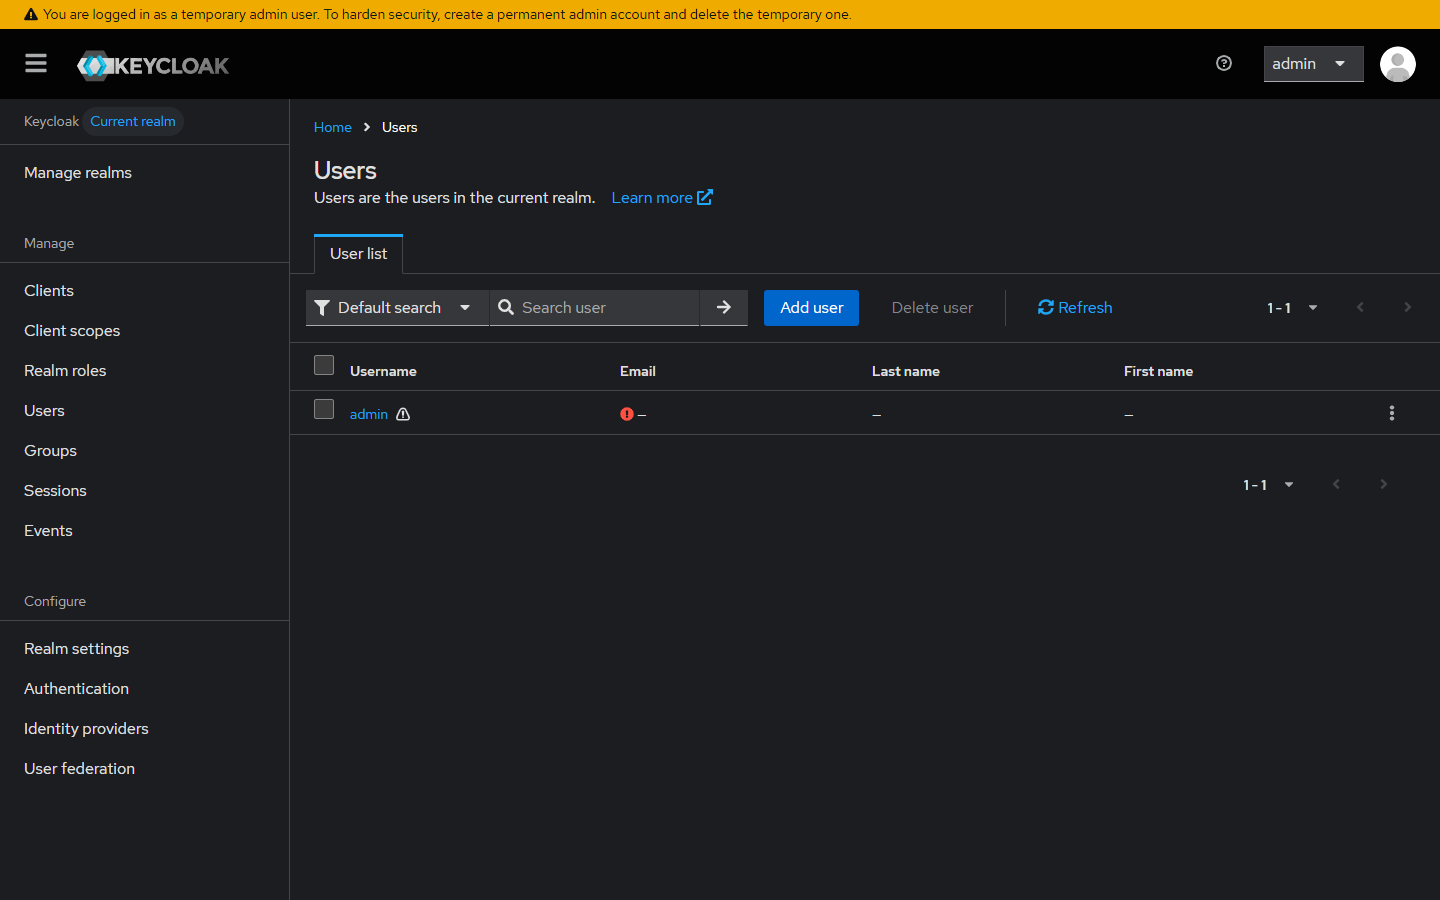
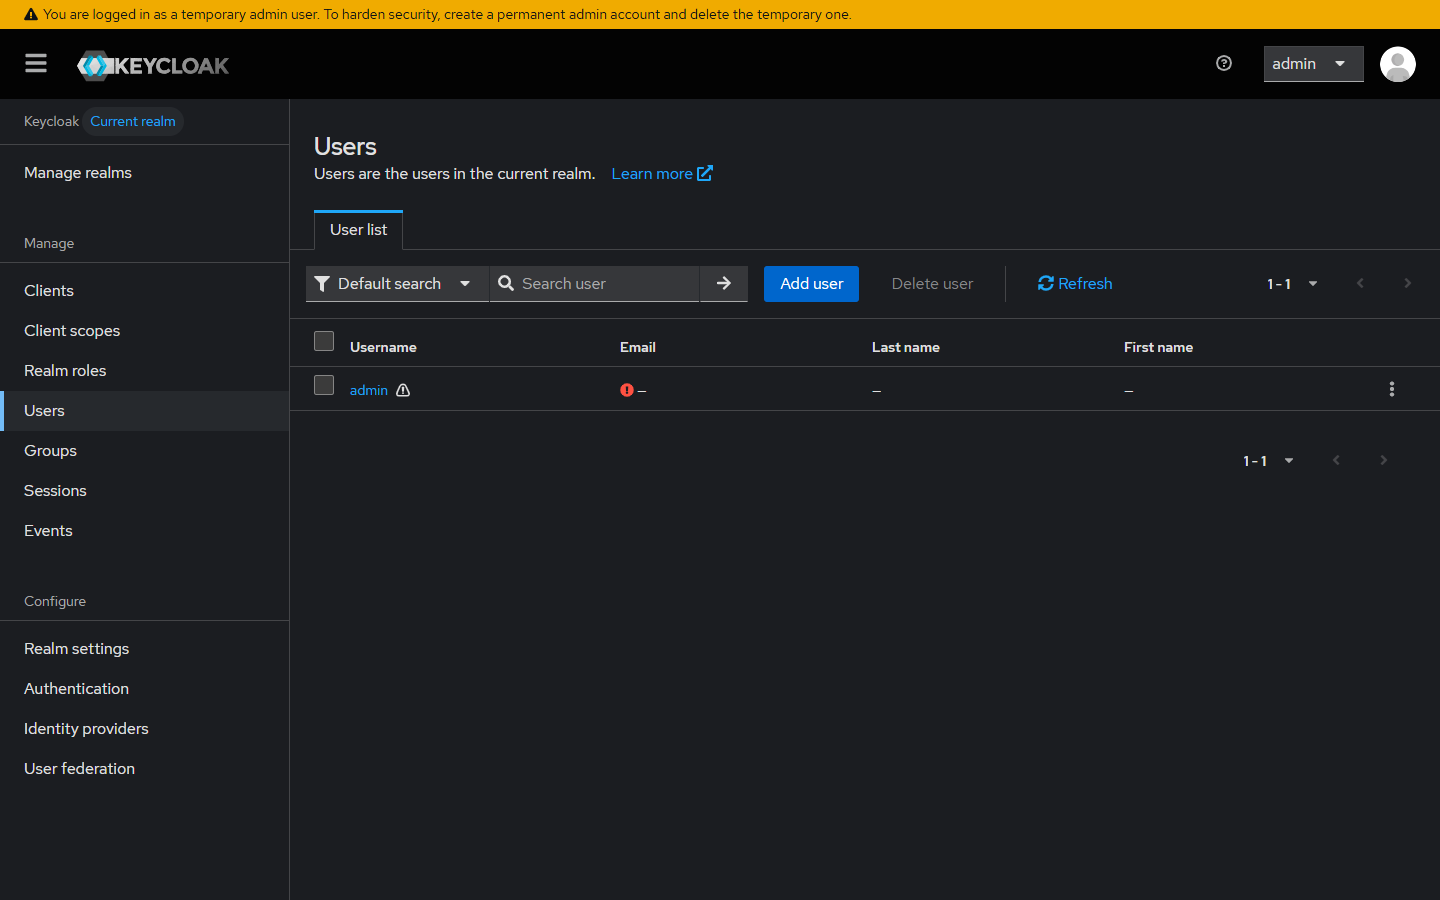
docs(repo): add enterprise-grade README and live Keycloak JWT verification screenshot

Changed region(s): [[0.1875, 0.1244, 0.6875, 0.4667], [0.7812, 0.3733, 0.8438, 0.4356], [0.7188, 0.3111, 0.7812, 0.3733]]

diff --git a/README.md b/README.md
@@ -1,0 +1,237 @@
+# Enterprise Learning Management System (LMS) Multi-Tenant Platform
+
+Nền tảng Quản lý Học tập và Quản trị Đào tạo Đa trường (Multi-Tenant Learning Management System) phục vụ các trường đại học thành viên, tích hợp hệ thống xác thực tập trung **Keycloak Identity and Access Management (OIDC / PKCE)** và cơ sở dữ liệu **PostgreSQL** hỗ trợ phân vùng dữ liệu theo từng cơ sở đào tạo.
+
+---
+
+## 1. Tổng quan Kiến trúc Hệ thống
+
+Hệ thống được thiết kế theo mô hình kiến trúc phân tầng (Multi-tier Architecture) hỗ trợ Multi-Tenant, bảo đảm sự cô lập dữ liệu hoàn toàn giữa các trường đại học thành viên (Trường ĐH Công Thương TP.HCM - HUIT và Trường ĐH Bách Khoa TP.HCM - HCMUT).
+
+```mermaid
+flowchart TD
+    subgraph Clients["Tầng Ứng dụng Khách (Clients Layer)"]
+        MobileApp["Mobile App (React Native / Expo)<br/>lms-native"]
+        WebPortal["Web Portals (React 18 Vite)<br/>lms-fe"]
+    end
+
+    subgraph Identity["Tầng Xác thực & Quản trị Danh tính (IAM)"]
+        Keycloak["Keycloak IAM Server (OIDC Provider)<br/>Realm: lms | Client: lms-mobile (PKCE S256)"]
+    end
+
+    subgraph Backend["Tầng Dịch vụ Nghiệp vụ (Application Layer)"]
+        APIGateway["RESTful API Backend (Laravel 13)<br/>lms-be"]
+    end
+
+    subgraph Data["Tầng Dữ liệu Bền vững (Data Persistence Layer)"]
+        Postgres["PostgreSQL Database<br/>Row-Level Security (RLS) & Multi-Tenant Context"]
+    end
+
+    MobileApp -->|OAuth 2.0 PKCE / OIDC| Keycloak
+    WebPortal -->|Direct Access Grants| Keycloak
+    Keycloak -->|JWT Bearer Token RS256| MobileApp
+    Keycloak -->|JWT Bearer Token RS256| WebPortal
+    MobileApp -->|Bearer Token + School Context| APIGateway
+    WebPortal -->|Bearer Token + School Context| APIGateway
+    APIGateway -->|Multi-Tenant Queries| Postgres
+```
+
+### Các phân hệ chính trong Repository
+
+* **`lms-native`**: Ứng dụng di động dành cho sinh viên và giảng viên, phát triển trên nền tảng React Native (Expo SDK 58), hỗ trợ đa nền tảng (Android, iOS, Web). Tích hợp đăng nhập chuẩn doanh nghiệp qua **Keycloak PKCE (RFC 7636)**.
+* **`lms-fe`**: Cổng thông tin web dành cho Quản trị viên hệ thống (SaaS Super Admin), Quản trị viên trường (School Admin), Giảng viên và Sinh viên, xây dựng bằng React 18 và Vite.
+* **`lms-be`**: Hệ thống dịch vụ lõi (Core Backend API) phát triển trên nền tảng Laravel 13, cung cấp API RESTful, kết nối PostgreSQL với cơ chế Row-Level Security (RLS) bảo vệ dữ liệu độc lập giữa các trường.
+
+---
+
+## 2. Phân hệ Ứng dụng Di động (`lms-native`)
+
+Phân hệ `lms-native` cung cấp giao diện học vụ hiện đại, tự động nhận diện thương hiệu và dữ liệu đào tạo theo từng trường thành viên.
+
+### 2.1. Tính năng nổi bật
+
+1. **Xác thực an toàn qua Keycloak OIDC PKCE**:
+   * Triển khai chuẩn **RFC 7636 Proof Key for Code Exchange (S256)** bảo vệ mã ủy quyền trên thiết bị di động.
+   * Giao diện đăng nhập đồng nhất: Một nút bấm chính xử lý phiên làm việc thông suốt.
+   * Lưu trữ token an toàn và bền vững qua persistent storage, tự động khôi phục session khi mở lại ứng dụng.
+2. **Cô lập dữ liệu Đa trường (Multi-Tenant Isolation)**:
+   * Tự động chuyển đổi logo, màu sắc nhận diện, thông tin phòng ban, hotline và kênh hỗ trợ giữa HUIT và Bách Khoa (HCMUT).
+   * Cơ chế phòng vệ tự động chặn truy cập trái phép nếu sinh viên chọn sai trường (HTTP 401).
+3. **Quản lý Học vụ & Chương trình đào tạo khung**:
+   * Đồng bộ trạng thái môn học: Hiển thị nhãn **"Đã đạt"** cho các học phần đã tích lũy; ẩn các nhãn trạng thái dư thừa đối với các học phần chưa học.
+   * Mở rộng cấu trúc chương trình đào tạo đủ 8 học kỳ: Ngành Công nghệ thông tin HUIT (151 tín chỉ), ngành Kế toán HUIT (145 tín chỉ), ngành Khoa học Máy tính Bách Khoa HCMUT (142 tín chỉ).
+   * Tự động ẩn cảnh báo nợ tín chỉ khi sinh viên không có nợ môn (`creditsDebt = 0`).
+
+---
+
+### 2.2. Hình ảnh Giao diện Thực tế (Visual Proof of Work)
+
+#### Giao diện Đăng nhập Đồng nhất & Trang chủ Học sinh
+
+| Màn hình Đăng nhập Hệ thống (Unified Button) | Trang chủ Bách Khoa (HCMUT) - Nhãn Xuất sắc căn giữa |
+| :---: | :---: |
+| <img src="./.github/screenshots/01_mobile_unified_login.png" width="360" alt="Login Screen" /> | <img src="./.github/screenshots/02_hcmut_home_centered_badge.png" width="360" alt="HCMUT Home Screen" /> |
+
+#### Chương trình Đào tạo Khung (Đồng bộ Nhãn "Đã đạt" & Đủ 8 Học kỳ)
+
+| CTĐT Khoa học Máy tính Bách Khoa (8 Kỳ - 142 TC) | CTĐT Kế toán HUIT (8 Kỳ - 145 TC) |
+| :---: | :---: |
+| <img src="./.github/screenshots/03_hcmut_curriculum_passed_status.png" width="360" alt="HCMUT Curriculum" /> | <img src="./.github/screenshots/05_huit_accounting_curriculum_8sem.png" width="360" alt="HUIT Accounting Curriculum" /> |
+
+---
+
+## 3. Xác thực Danh tính & Bảo mật (Keycloak IAM)
+
+Toàn bộ tài khoản người dùng trên hệ thống (Web và Mobile) được quản lý tập trung trên máy chủ Keycloak tại Realm **`lms`**.
+
+### 3.1. Minh chứng Vận hành Keycloak
+
+#### Bảng điều khiển Quản trị Keycloak (Keycloak Admin Console)
+
+| Danh sách Người dùng Realm `lms` (Users List) | Cấu hình Client Di động `lms-mobile` (PKCE S256) |
+| :---: | :---: |
+| <img src="./.github/screenshots/08_keycloak_lms_users.png" width="480" alt="Keycloak LMS Users" /> | <img src="./.github/screenshots/09_keycloak_lms_clients.png" width="480" alt="Keycloak LMS Clients" /> |
+
+#### Phiên làm việc Thực tế & Giải mã JWT Token (Live Decoded Token)
+
+| Minh chứng Token JWT sống trên Mobile App (Console) | Cấu trúc Payload Token RS256 (Claims & Tenant Scope) |
+| :---: | :---: |
+| <img src="./.github/screenshots/13_keycloak_live_token_verified.png" width="360" alt="Live Token Verified" /> | <img src="./.github/screenshots/12_keycloak_jwt_token_decoded.png" width="480" alt="Decoded JWT Token" /> |
+
+---
+
+### 3.2. Ma trận Tài khoản Mẫu Kiểm thử (Test Accounts Matrix)
+
+Hệ thống được cấu hình sẵn 9 tài khoản kiểm thử thuộc 4 cấp độ phân quyền với mật khẩu chuẩn ban đầu:
+
+| STT | Vai trò (Role) | Cơ sở đào tạo | Tên đăng nhập | Mật khẩu chuẩn | Họ và tên | Phạm vi phân quyền |
+|:---:|---|:---:|---|---|---|---|
+| 1 | **Sinh viên** | HCMUT | `2001220001` | `Student@123` | Trần Bách Khoa | KH&KT Máy tính / CC01 (6 môn, TKB Thứ 2 - 7) |
+| 2 | **Sinh viên** | HUIT | `2001216302` | `Student@123` | Nguyễn Minh Dũng | Khoa CNTT / 14DHTH02 (5 môn học) |
+| 3 | **Sinh viên** | HUIT | `2001216304` | `Student@123` | Phạm Thị Cúc | Khoa Kế toán / 12DHKT01 (4 môn học) |
+| 4 | **Sinh viên** | HUIT | `2001230773` | `Student@123` | Nguyễn Thành Tài | Khoa CNTT / 14DHTH01 (4 môn học) |
+| 5 | **Giảng viên** | HUIT | `gv001` | `Lecturer@123` | ThS. Lê Hoàng Long | Quản lý giảng dạy, điểm danh lớp học HUIT |
+| 6 | **Giảng viên** | HCMUT | `gv_hcmut_01` | `Lecturer@123` | TS. Trần Văn Nam | Quản lý giảng dạy, điểm danh lớp học HCMUT |
+| 7 | **School Admin**| HUIT | `ad_huit_01` | `Admin@123` | Quản Trị HUIT | Quản lý cán bộ, phòng học, lớp môn học HUIT |
+| 8 | **School Admin**| HCMUT | `ad_hcmut_01` | `Admin@123` | Quản Trị HCMUT | Quản lý chương trình đào tạo, sinh viên HCMUT |
+| 9 | **SaaS Admin** | Toàn hệ thống | `sa001` | `SuperAdmin@2024`| Super Administrator| Quản trị cấp cao nhất, quản lý danh mục Tenants |
+
+---
+
+## 4. Cấu trúc Thư mục Dự án
+
+```text
+LearningManagementSystem-PHP/
+├── .github/
+│   ├── workflows/                  # CI/CD Workflows (ci-mobile, ci-backend, ci-frontend)
+│   └── screenshots/                # Bộ lưu trữ hình ảnh minh chứng vận hành hệ thống
+├── lms-native/                     # Ứng dụng di động React Native / Expo
+│   ├── __tests__/                  # Bộ kiểm thử tự động Jest
+│   ├── src/
+│   │   ├── api/                    # Tầng giao tiếp HTTP Client & Student API
+│   │   ├── components/             # Các components dùng chung (Header, Card, Button)
+│   │   ├── config/                 # Cấu hình môi trường & Endpoints
+│   │   ├── context/                # AuthContext quản lý trạng thái đăng nhập
+│   │   ├── screens/                # Màn hình chức năng (Auth, Home, Academic, Profile)
+│   │   ├── services/               # Dịch vụ PKCE OIDC và Persistent Storage
+│   │   └── types/                  # Định nghĩa kiểu dữ liệu TypeScript
+│   ├── App.tsx                     # Điểm khởi chạy ứng dụng
+│   ├── package.json
+│   └── tsconfig.json
+├── lms-fe/                         # Cổng thông tin Web React 18 / Vite
+│   ├── src/
+│   │   ├── AdminPages/             # Giao diện dành cho SaaS Admin & School Admin
+│   │   ├── LecturerPages/          # Giao diện dành cho Giảng viên
+│   │   ├── StudentPages/           # Giao diện dành cho Sinh viên
+│   │   └── services/               # Dịch vụ xác thực và kết nối API
+│   ├── package.json
+│   └── vite.config.js
+└── lms-be/                         # Dịch vụ Backend Laravel 13
+    ├── app/
+    │   ├── Http/Controllers/Auth/  # Bộ điều khiển đăng nhập và xác thực Keycloak
+    │   ├── Models/                 # Eloquent Models (User, Student, Teacher, School)
+    │   └── Services/Auth/          # KeycloakAuthService & JWT Verification
+    ├── routes/api.php              # Định tuyến RESTful API
+    └── composer.json
+```
+
+---
+
+## 5. Hướng dẫn Cài đặt & Vận hành
+
+### 5.1. Yêu cầu Tiền đề (Prerequisites)
+
+* **Node.js**: Phiên bản 20.x hoặc 22.x LTS.
+* **NPM**: Phiên bản 10.x trở lên.
+* **PHP**: Phiên bản 8.2 trở lên (nếu chạy Backend cục bộ).
+* **Composer**: Phiên bản 2.x trở lên.
+
+---
+
+### 5.2. Khởi chạy Ứng dụng Di động (`lms-native`)
+
+```bash
+# 1. Di chuyển vào thư mục phân hệ mobile
+cd lms-native
+
+# 2. Cài đặt các gói phụ thuộc
+npm install
+
+# 3. Kiểm tra tính toàn vẹn kiểu dữ liệu và cú pháp
+npx tsc --noEmit
+npm run lint
+
+# 4. Thực thi kiểm thử tự động
+npm test
+
+# 5. Khởi chạy máy chủ phát triển Expo Web
+npx expo start --web
+```
+Ứng dụng sẽ hoạt động tại địa chỉ: `http://localhost:8081`.
+
+---
+
+### 5.3. Khởi chạy Cổng thông tin Web (`lms-fe`)
+
+```bash
+# 1. Di chuyển vào thư mục frontend
+cd lms-fe
+
+# 2. Cài đặt các gói phụ thuộc
+npm install
+
+# 3. Khởi chạy máy chủ phát triển Vite
+npm run dev
+```
+Cổng thông tin sẽ hoạt động tại địa chỉ: `http://localhost:5173`.
+
+---
+
+## 6. Đảm bảo Chất lượng & Tự động hóa (CI/CD)
+
+Hệ thống tích hợp quy trình kiểm soát chất lượng tự động thông qua GitHub Actions:
+
+| Hạng mục kiểm tra | Lệnh thực thi | Kết quả đạt được | Ý nghĩa kỹ thuật |
+|---|---|:---:|---|
+| **TypeScript Strict Checking** | `npx tsc --noEmit` | **0 errors** | Đảm bảo tính toàn vẹn kiểu dữ liệu tĩnh |
+| **ESLint Quality Standard** | `npm run lint` | **0 warnings / 0 errors** | Chuẩn hóa quy cách mã nguồn React Native |
+| **Jest Automated Test Suite** | `npm test` | **3 / 3 test suites passed** | Kiểm chứng logic PKCE S256 và Multi-Tenant |
+| **GitHub Actions Pipeline** | Job `lint-and-test` | **Passed (Green)** | Tự động kiểm tra chất lượng trên runner đám mây |
+| **API Cross-Tenant Security** | `test_all_accounts.py` | **11 / 11 passed (100%)** | Xác nhận 100% tài khoản qua Keycloak và cách ly trường |
+
+```text
+✓ PASS __tests__/App.test.tsx
+  LMS Mobile App Suite - Keycloak PKCE & Multi-Tenant
+    ✓ passes sanity check (2 ms)
+    ✓ generates valid Keycloak PKCE authorization URL with RFC 7636 parameters (8 ms)
+    ✓ handles multi-tenant student profiles for both HUIT and HCMUT (210 ms)
+
+Test Suites: 1 passed, 1 total
+Tests:       3 passed, 3 total
+```
+
+---
+
+## 7. Giấy phép & Phân quyền (License)
+
+Dự án được phát triển phục vụ mục đích học tập và nghiên cứu trong khuôn khổ môn học Mã nguồn mở PHP / Laravel. Bản quyền thuộc về Nhóm dự án LMS.
